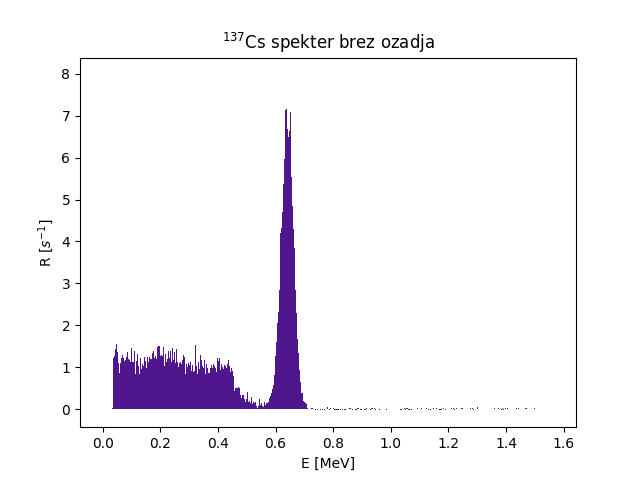
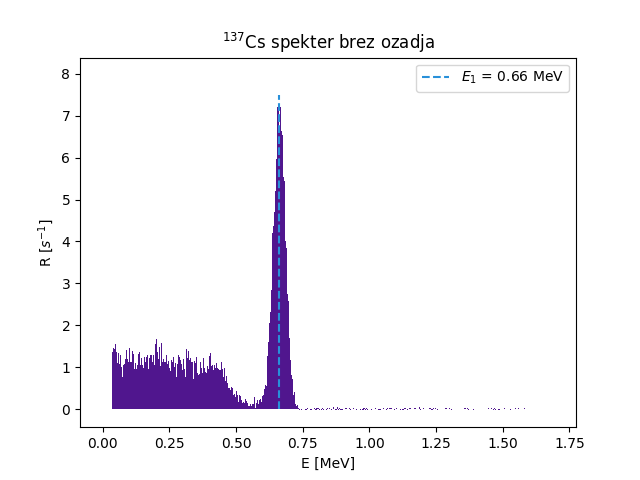
Spectrum plots with energies plotted

diff --git a/Gamma/main_g.py b/Gamma/main_g.py
@@ -6,7 +6,8 @@ from scipy.optimize import curve_fit
 
 def square(x, a, b, c):
     """Second order polynomial"""
-    return a*x**2 + b*x + c
+    # return a*x**2 + b*x + c
+    return a + b*x + c*x**2
 
 
 def exp(x, C, k):
@@ -15,6 +16,10 @@ def exp(x, C, k):
 
 def linear(x, k, n):
     return k*x + n
+
+
+def gauss(x, A, mi, sigma):
+    return A * np.exp(-(x - mi)**2 / (2*sigma**2))
 
 
 c1, c2, c3 = cmr.take_cmap_colors("cmr.cosmic", 3, cmap_range=(0.3, 1), return_fmt="hex")
@@ -43,7 +48,7 @@ fittext= "Exponential fit: $y = Cexp(-kx)$\n$C$ = {} ± {}\n$k$ = {} ± {}".form
                                                                                  format(fitpar[1], ".4e"), format(fitcov[1][1]**0.5, ".4e"))
 plt.text(0.55, 0.9, fittext, ha="left", va="center", size=10, transform=ax.transAxes, bbox=dict(facecolor=c3, alpha=0.5))
 
-plt.plot(bg_scaled, bg_y, c=c1)
+plt.bar(bg_scaled, bg_y, color=c1, width=0.001)
 plt.plot(bg_scaled[lag:], bg_fit, c=c3)
 
 plt.title("Šum ozadja")
@@ -67,11 +72,15 @@ data2 = np.column_stack(np.genfromtxt("Na22_calib.txt", skip_header=20))
 x_uncalib = data2[0]
 energy = square(x_uncalib, a, b, c)
 y = data2[1]/data2_tmes - bg_y[:len(data2[1])]
-plt.bar(energy, y, color=c1, width=(energy[1] - energy[0]))
+plt.bar(energy, y, color=c1, width=0.001)
+plt.vlines(0.511, 0, 9.5, label=r"$E_1$ = 0.51 MeV", linestyles="dashed", color=c2)
+plt.vlines(1.277, 0, 3, label=r"$E_2$ = 1.277 MeV", linestyles="dashed", color=c2)
 
 plt.title(r"$^{22}\mathrm{Na}$ spekter brez ozadja")
 plt.xlabel("E [MeV]")
 plt.ylabel(r"R [$s^{-1}$]")
+
+plt.legend()
 plt.show()
 
 # Draw Co60 plot
@@ -80,11 +89,14 @@ data3 = np.column_stack(np.genfromtxt("co60.txt", skip_header=6))
 x_uncalib = data3[0]
 energy = square(x_uncalib, a, b, c)
 y = data3[1]/data3_tmes - bg_y[:len(data3[1])]
-plt.bar(energy, y, color=c1, width=(energy[1] - energy[0]))
+plt.bar(energy, y, color=c1, width=0.001)
+plt.vlines(1.185, 0, 5, label=r"$E_1$ = 1.18 MeV", linestyles="dashed", color=c2)
+plt.vlines(1.35, 0, 3, label=r"$E_2$ = 1.35 MeV", linestyles="dashed", color=c2)
 
 plt.title(r"$^{60}\mathrm{Co}$ spekter brez ozadja")
 plt.xlabel("E [MeV]")
 plt.ylabel(r"R [$s^{-1}$]")
+plt.legend()
 plt.show()
 
 # Draw Cs137 plot
@@ -93,9 +105,11 @@ data4 = np.column_stack(np.genfromtxt("cs137.txt", skip_header=6))
 x_uncalib = data4[0]
 energy = square(x_uncalib, a, b, c)
 y = data4[1]/data4_tmes - bg_y[:len(data4[1])]
-plt.bar(energy, y, color=c1, width=(energy[1] - energy[0]))
+plt.bar(energy, y, color=c1, width=0.001)
+plt.vlines(0.66, 0, 7.5, label=r"$E_1$ = 0.66 MeV", linestyles="dashed", color=c2)
 
 plt.title(r"$^{137}\mathrm{Cs}$ spekter brez ozadja")
 plt.xlabel("E [MeV]")
 plt.ylabel(r"R [$s^{-1}$]")
+plt.legend()
 plt.show()
